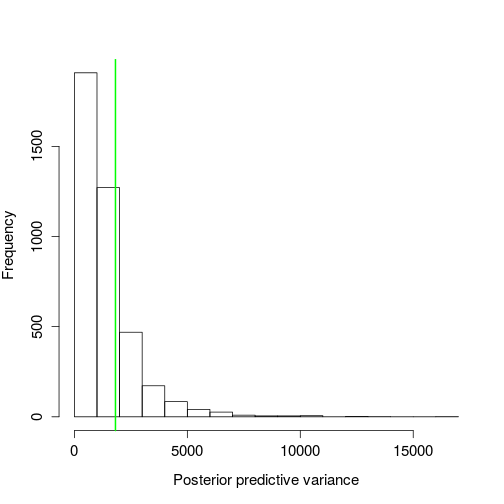
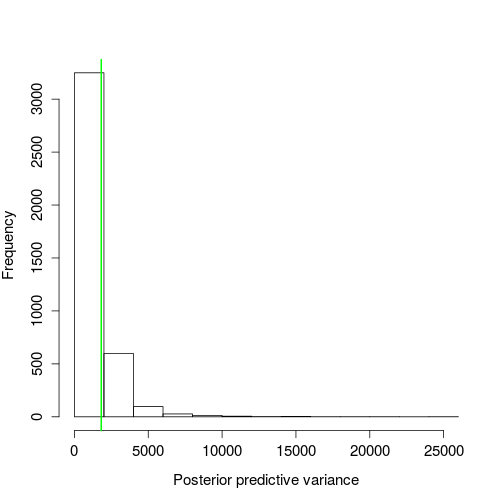
fixing a few typos

diff --git a/_site/Prius/index.html b/_site/Prius/index.html
@@ -172,10 +172,10 @@ Figure 2. Gamma prior for exponential rate parameter.</p>
 ## post-warmup draws per chain=1000, total post-warmup draws=4000.
 ## 
 ##        mean se_mean   sd   2.5%    25%    50%    75%  97.5% n_eff Rhat
-## beta   0.03    0.00 0.01   0.02   0.02   0.03   0.03   0.04  1516    1
-## lp__ -82.17    0.02 0.71 -84.08 -82.34 -81.90 -81.71 -81.65  1576    1
+## beta   0.03    0.00 0.01   0.02   0.02   0.03   0.03   0.04  1685    1
+## lp__ -82.15    0.02 0.73 -84.07 -82.30 -81.87 -81.70 -81.65  1495    1
 ## 
-## Samples were drawn using NUTS(diag_e) at Fri Sep  1 15:23:14 2017.
+## Samples were drawn using NUTS(diag_e) at Fri Sep  1 15:28:30 2017.
 ## For each parameter, n_eff is a crude measure of effective sample size,
 ## and Rhat is the potential scale reduction factor on split chains (at 
 ## convergence, Rhat=1).
@@ -217,11 +217,11 @@ Figure 4. Inferred posterior distribution for exponential rate parameter.</p>
 </div>
 
 <div class="highlighter-rouge"><pre class="highlight"><code>##     2.5%    97.5% 
-## 22.95475 58.07866
+## 22.71007 56.96707
 </code></pre>
 </div>
 
-<p>So there’s a 95% chance the expected wait time between Prius spottings is between 23 and 58 seconds.</p>
+<p>So there’s a 95% chance the expected wait time between Prius spottings is between 23 and 57 seconds.</p>
 
 <p>We can also easily see the probability that the expected wait time is less than, say, one minute.</p>
 
@@ -229,7 +229,7 @@ Figure 4. Inferred posterior distribution for exponential rate parameter.</p>
 </span></code></pre>
 </div>
 
-<div class="highlighter-rouge"><pre class="highlight"><code>## [1] 0.98225
+<div class="highlighter-rouge"><pre class="highlight"><code>## [1] 0.98275
 </code></pre>
 </div>
 
@@ -250,12 +250,12 @@ Figure 4. Inferred posterior distribution for exponential rate parameter.</p>
 </span></code></pre>
 </div>
 
-<div class="highlighter-rouge"><pre class="highlight"><code>## [1] 0.24275
+<div class="highlighter-rouge"><pre class="highlight"><code>## [1] 0.22025
 </code></pre>
 </div>
 <p>Figure 5. Distribution of variances from posterior predictive distributions, green line is the sample variance.</p>
 
-<p>There’s a ~0.24% probability of simulated data having variation greater than the observed. This isn’t too far off. The nearer to 50%, the more consistent the simulated data and observed. The exponential distribution model as-is seems fairly adequate.</p>
+<p>There’s a ~22% probability of simulated data having variation greater than the observed. This isn’t too far off. The nearer to 50%, the more consistent the simulated data and observed. The exponential distribution model as-is seems fairly adequate.</p>
 
 <p>We can also get some idea of the max wait time conditional of the data.</p>
 
@@ -275,7 +275,7 @@ Figure 4. Inferred posterior distribution for exponential rate parameter.</p>
 </div>
 
 <div class="highlighter-rouge"><pre class="highlight"><code>##      2.5%     97.5% 
-## 0.8173403 4.5141701
+## 0.8491952 4.3820713
 </code></pre>
 </div>
 
@@ -350,7 +350,7 @@ Figure 8. Distribution of bootstrap replicates for mean exponential wait times. 
 </div>
 
 <div class="highlighter-rouge"><pre class="highlight"><code>##     2.5%    97.5% 
-## 18.64706 57.11912
+## 18.29412 56.82353
 </code></pre>
 </div>
 

diff --git a/_posts/2017-08-30-Prius.md b/_posts/2017-08-30-Prius.md
@@ -132,10 +132,10 @@ print(stan_fit)
 ## post-warmup draws per chain=1000, total post-warmup draws=4000.
 ## 
 ##        mean se_mean   sd   2.5%    25%    50%    75%  97.5% n_eff Rhat
-## beta   0.03    0.00 0.01   0.02   0.02   0.03   0.03   0.04  1516    1
-## lp__ -82.17    0.02 0.71 -84.08 -82.34 -81.90 -81.71 -81.65  1576    1
+## beta   0.03    0.00 0.01   0.02   0.02   0.03   0.03   0.04  1685    1
+## lp__ -82.15    0.02 0.73 -84.07 -82.30 -81.87 -81.70 -81.65  1495    1
 ## 
-## Samples were drawn using NUTS(diag_e) at Fri Sep  1 15:23:14 2017.
+## Samples were drawn using NUTS(diag_e) at Fri Sep  1 15:28:30 2017.
 ## For each parameter, n_eff is a crude measure of effective sample size,
 ## and Rhat is the potential scale reduction factor on split chains (at 
 ## convergence, Rhat=1).
@@ -181,10 +181,10 @@ cred1
 
 ```
 ##     2.5%    97.5% 
-## 22.95475 58.07866
+## 22.71007 56.96707
 ```
 
-So there's a 95% chance the expected wait time between Prius spottings is between 23 and 58 seconds.
+So there's a 95% chance the expected wait time between Prius spottings is between 23 and 57 seconds.
 
 We can also easily see the probability that the expected wait time is less than, say, one minute. 
 
@@ -194,7 +194,7 @@ mean(1/exp_post$beta < 60)
 ```
 
 ```
-## [1] 0.98225
+## [1] 0.98275
 ```
 
 Also valuable in a Bayesian framework is the ability to conduct posterior predictive checks. We can use posterior draws of the rate parameter, and generate simulated data from this exponential distribution. Perhaps the wait times have more variation than the exponential distribution allows for. We simply need to compare the observed variation to that of the simulated data sets:
@@ -216,11 +216,11 @@ mean(pred_var > var(wt_times$wait))
 ```
 
 ```
-## [1] 0.24275
+## [1] 0.22025
 ```
 Figure 5. Distribution of variances from posterior predictive distributions, green line is the sample variance.
 
-There's a ~0.24% probability of simulated data having variation greater than the observed. This isn't too far off. The nearer to 50%, the more consistent the simulated data and observed. The exponential distribution model as-is seems fairly adequate.
+There's a ~22% probability of simulated data having variation greater than the observed. This isn't too far off. The nearer to 50%, the more consistent the simulated data and observed. The exponential distribution model as-is seems fairly adequate.
 
 
 We can also get some idea of the max wait time conditional of the data.
@@ -243,7 +243,7 @@ quantile(pred_max/60, c(0.025, 0.975))
 
 ```
 ##      2.5%     97.5% 
-## 0.8173403 4.5141701
+## 0.8491952 4.3820713
 ```
 
 Figure 6. Distribution of maximum wait times from posterior predictive distributions, green line is the sample maximum wait time.
@@ -325,7 +325,7 @@ quantile(boots, c(0.025, 0.975))
 
 ```
 ##     2.5%    97.5% 
-## 18.64706 57.11912
+## 18.29412 56.82353
 ```
 
 ```r
